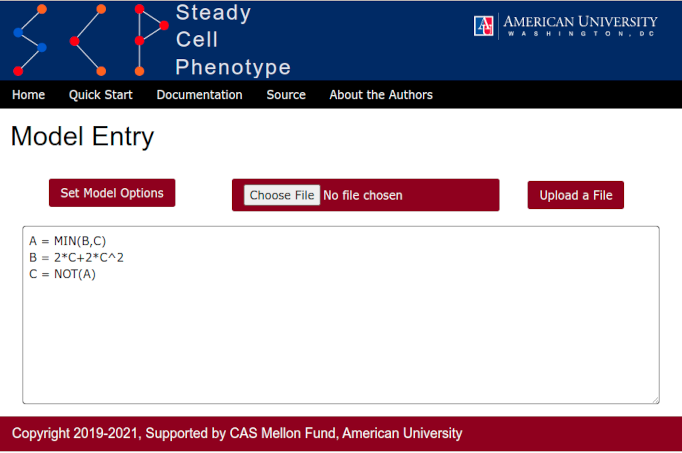
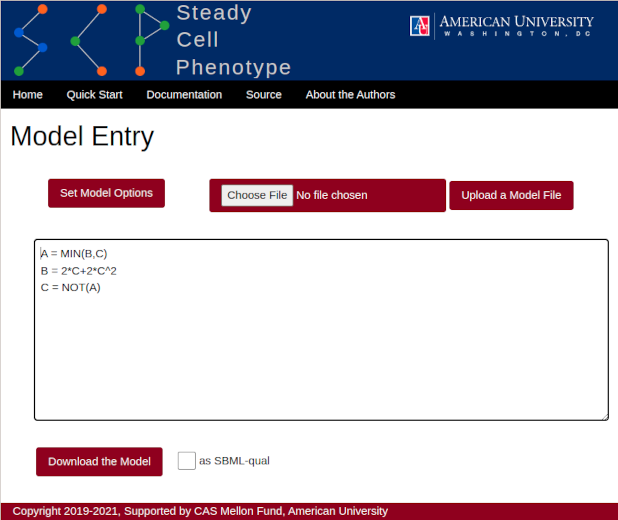
update quickstart

Changed region(s): [[0.0, 0.0, 1.0, 0.8035], [0.0, 0.4945, 1.0, 1.0], [0.6456, 0.0, 0.9838, 0.0927]]

diff --git a/quickstart.html b/quickstart.html
@@ -94,6 +94,11 @@
             <p>Once you have entered the model, click on the submit button. On the backend, we do a quick
               check to make sure each line is of the form var=formula, but do no other checking.</p>
             <p>For this example, we will use a very simple model with two variables, A and B.</p>
+            <p>
+              Note: You can also upload the model from a text file. File should either be in the
+              above format or be a ternary SBML-qual model. Entered models can downloaded using the
+              button in the lower left.
+            </p>
           </article>
         </section>
 
@@ -124,15 +129,17 @@
                       cycle or fixed point found. We <em>do not guarantee</em> that all cycles or fixed points
                       will be found.
                     </li>
-                    <li><b>Find all fixed points.</b> In which we use computer algebra software to find all
-                      fixed points. Here we <em>guarantee</em> that all fixed points will be found. However,
-                      this algorithm will not find cycles and does not give any information on the size of the
-                      basin of attraction.
+                    <li>
+                      <b>Find all fixed points.</b> In which we use an algorithm to find all fixed
+                      points. Here we <em>guarantee</em> that all fixed points will be
+                      found. However, this algorithm will not find cycles and does not give any
+                      information on the size of the basin of attraction.
                     </li>
                   </ol>
                 </li>
               </ul>
-              Once you have made your choices, click on the submit button.
+              Once you have made your choices, click on the submit button.  We also support loading
+              and saving of model configurations in a JSON formatted file.
             </p>
             <p>The computation will hopefully be quick, but is not instantaneous. Expect a short wait; the
               next page will be rendered once the server is finished simulating. </p>
